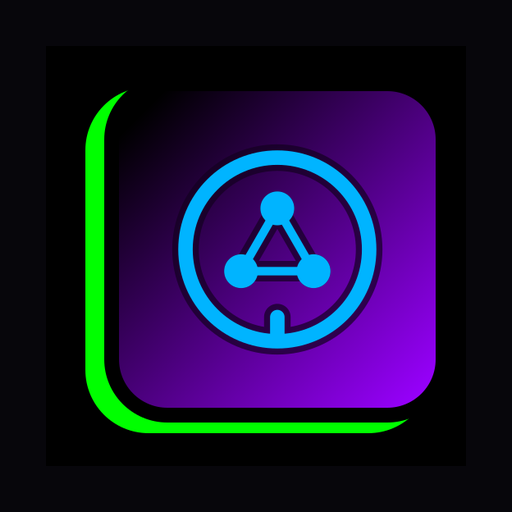
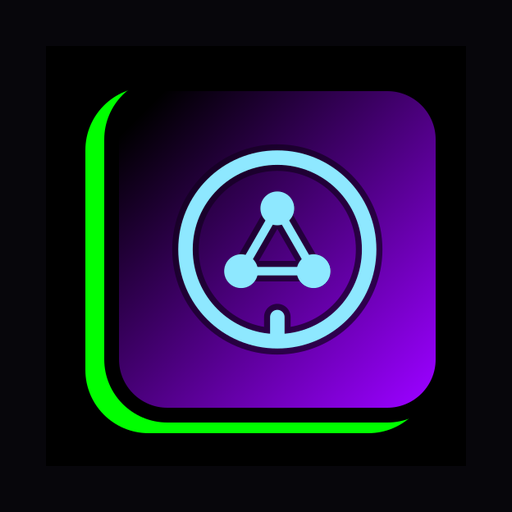
SYSTEMS v3.4 · icono de pestaña y de app con el azul claro y recortes de la imagen de pantalla en más fotos

Changed region(s): [[0.3438, 0.2812, 0.75, 0.6875], [0.4375, 0.375, 0.6562, 0.5625]]

diff --git a/comun/fotorec.js b/comun/fotorec.js
@@ -1,5 +1,6 @@
 // SYSTEMS · dónde está la pantalla dentro de la foto oficial de cada display (fotos frontales de charmex.net, según información de los fabricantes).
 // SC_FOTO_REC[id] = [ancho px, alto px, x, y, ancho, alto de la imagen activa en fracción de la foto]. Calculado el 27-11-2026 con el contorno
 // del producto en la foto y sus medidas reales (comun/medidas.js): solo las fotos frontales cuyo contorno coincide con el cuerpo (5 % como mucho).
+// Además, recortes medidos a mano (27-11) en las fotos de ambiente o con dos pantallas: Clevertouch CL PRO2, High Bright y tótems; LG UH5Q, UL3Q, UL5Q, UH7Q y PK640.
 // La simulación a escala enseña como contenido lo que se ve en la pantalla de la foto; sin recorte, la foto entera. GPL-3.0 · mediaservi.com
-globalThis.SC_FOTO_REC = {"LH24OHBEBGBXEN":[955,637,0.0772,0.1431,0.8457,0.7139],"LH24QBCTBGCXEN":[797,637,0.0565,0.1877,0.887,0.6215],"LH32QMCEBGCXEN":[956,559,0.0438,0.0688,0.9302,0.8803],"LH37SHCEBGBXEN":[955,637,0.0432,0.2943,0.9115,0.4178],"LH43QBCEBGCXEN":[956,559,0.04,0.0616,0.9377,0.8947],"LH43QHCEBGCXEN":[956,559,0.04,0.0616,0.9377,0.8947],"LH43QMBTBGCXEN":[955,637,0.0699,0.1397,0.8601,0.7206],"LH43QMCEPGCXEN":[956,559,0.04,0.0616,0.9377,0.8947],"LH46OMBEBGBXEN":[955,637,0.0627,0.1287,0.8746,0.7394],"LH50QBCEBGCXEN":[956,559,0.0387,0.059,0.9404,0.9],"LH50QHCEBGCXEN":[956,559,0.0387,0.059,0.9404,0.9],"LH50QMCEPGCXEN":[956,559,0.0387,0.059,0.9404,0.9],"LH55OHDWBGBXEN":[956,563,0.0191,0.0454,0.9629,0.9198],"LH55QBCEBGCXEN":[956,559,0.0392,0.0587,0.9394,0.9006],"LH55QHCEBGCXEN":[956,559,0.0392,0.0587,0.9394,0.9006],"LH55QMBTBGCXEN":[955,637,0.0673,0.1335,0.8654,0.7362],"LH55QMCEBGCXEN":[956,559,0.0392,0.0587,0.9394,0.9006],"LH55VMCEBGBXEN":[955,637,0.0487,0.1226,0.9004,0.7549],"LH65QBCEBGCXEN":[956,559,0.0372,0.0555,0.9433,0.9068],"LH65QHCEBGCXEN":[956,559,0.0372,0.0555,0.9433,0.9068],"LH65QMCEBGCXEN":[956,559,0.0372,0.0555,0.9433,0.9068],"LH75OMAEBGBXEN":[955,637,0.0534,0.1196,0.8912,0.7577],"LH75QBCEBGCXEN":[956,559,0.0376,0.0558,0.9426,0.9064],"LH75QHCEBGCXEN":[956,559,0.0376,0.0558,0.9426,0.9064],"LH75QMCEBGCXEN":[956,559,0.0376,0.0558,0.9426,0.9064],"LH85QBCEBGCXEN":[956,559,0.037,0.0545,0.9437,0.909],"LH85QMCEBGCXEN":[956,559,0.037,0.0545,0.9437,0.909],"LH85SMHPBGCXEN":[376,637,0.0503,0.0239,0.9126,0.9569],"LH98QHCEBGCXEN":[956,559,0.0365,0.0535,0.9447,0.9108],"LH55WMFWBGCXEN":[955,637,0.072,0.141,0.8559,0.718],"LH65WMFWBGCXEN":[956,568,0.0373,0.0654,0.9244,0.8779],"LH75WMFWLGCXEN":[956,581,0.0334,0.0785,0.9279,0.8498],"LH85WMFWLGCXEN":[956,581,0.0312,0.0735,0.9323,0.8598],"37BH7N-H":[956,323,0.0369,0.1001,0.8947,0.7596],"49VL5PJ-A":[956,634,0.1435,0.2326,0.7099,0.6027],"55XF3E-B":[956,534,0.1103,0.089,0.7701,0.7901],"TS1291304EXP":[956,608,0.104,0.1419,0.8035,0.7146]};
+globalThis.SC_FOTO_REC = {"LH24OHBEBGBXEN":[955,637,0.0772,0.1431,0.8457,0.7139],"LH24QBCTBGCXEN":[797,637,0.0565,0.1877,0.887,0.6215],"LH32QMCEBGCXEN":[956,559,0.0438,0.0688,0.9302,0.8803],"LH37SHCEBGBXEN":[955,637,0.0432,0.2943,0.9115,0.4178],"LH43QBCEBGCXEN":[956,559,0.04,0.0616,0.9377,0.8947],"LH43QHCEBGCXEN":[956,559,0.04,0.0616,0.9377,0.8947],"LH43QMBTBGCXEN":[955,637,0.0699,0.1397,0.8601,0.7206],"LH43QMCEPGCXEN":[956,559,0.04,0.0616,0.9377,0.8947],"LH46OMBEBGBXEN":[955,637,0.0627,0.1287,0.8746,0.7394],"LH50QBCEBGCXEN":[956,559,0.0387,0.059,0.9404,0.9],"LH50QHCEBGCXEN":[956,559,0.0387,0.059,0.9404,0.9],"LH50QMCEPGCXEN":[956,559,0.0387,0.059,0.9404,0.9],"LH55OHDWBGBXEN":[956,563,0.0191,0.0454,0.9629,0.9198],"LH55QBCEBGCXEN":[956,559,0.0392,0.0587,0.9394,0.9006],"LH55QHCEBGCXEN":[956,559,0.0392,0.0587,0.9394,0.9006],"LH55QMBTBGCXEN":[955,637,0.0673,0.1335,0.8654,0.7362],"LH55QMCEBGCXEN":[956,559,0.0392,0.0587,0.9394,0.9006],"LH55VMCEBGBXEN":[955,637,0.0487,0.1226,0.9004,0.7549],"LH65QBCEBGCXEN":[956,559,0.0372,0.0555,0.9433,0.9068],"LH65QHCEBGCXEN":[956,559,0.0372,0.0555,0.9433,0.9068],"LH65QMCEBGCXEN":[956,559,0.0372,0.0555,0.9433,0.9068],"LH75OMAEBGBXEN":[955,637,0.0534,0.1196,0.8912,0.7577],"LH75QBCEBGCXEN":[956,559,0.0376,0.0558,0.9426,0.9064],"LH75QHCEBGCXEN":[956,559,0.0376,0.0558,0.9426,0.9064],"LH75QMCEBGCXEN":[956,559,0.0376,0.0558,0.9426,0.9064],"LH85QBCEBGCXEN":[956,559,0.037,0.0545,0.9437,0.909],"LH85QMCEBGCXEN":[956,559,0.037,0.0545,0.9437,0.909],"LH85SMHPBGCXEN":[376,637,0.0503,0.0239,0.9126,0.9569],"LH98QHCEBGCXEN":[956,559,0.0365,0.0535,0.9447,0.9108],"LH55WMFWBGCXEN":[955,637,0.072,0.141,0.8559,0.718],"LH65WMFWBGCXEN":[956,568,0.0373,0.0654,0.9244,0.8779],"LH75WMFWLGCXEN":[956,581,0.0334,0.0785,0.9279,0.8498],"LH85WMFWLGCXEN":[956,581,0.0312,0.0735,0.9323,0.8598],"37BH7N-H":[956,323,0.0369,0.1001,0.8947,0.7596],"49VL5PJ-A":[956,634,0.1435,0.2326,0.7099,0.6027],"55XF3E-B":[956,534,0.1103,0.089,0.7701,0.7901],"TS1291304EXP":[956,608,0.104,0.1419,0.8035,0.7146],"TS1291320EXP":[811,637,0.0185,0.2292,0.5364,0.5149],"TS1291321EXP":[811,637,0.0185,0.2292,0.5364,0.5149],"TS1291322EXP":[811,637,0.0185,0.2292,0.5364,0.5149],"TS1291323EXP":[811,637,0.0185,0.2292,0.5364,0.5149],"TS1291324EXP":[811,637,0.0185,0.2292,0.5364,0.5149],"TS1291325EXP":[811,637,0.0185,0.2292,0.5364,0.5149],"TS1291312EXP":[405,637,0.1432,0.0958,0.7086,0.7975],"TS1291313EXP":[405,637,0.1432,0.0958,0.7086,0.7975],"TS1290060EXP":[261,637,0.1073,0.0314,0.7854,0.5557],"TS1290061EXP":[261,637,0.1073,0.0314,0.7854,0.5557],"TS1291310":[261,637,0.1073,0.0314,0.7854,0.5557],"TS1291311":[261,637,0.1073,0.0314,0.7854,0.5557],"43UH5Q-E":[956,484,0.2814,0.1157,0.1768,0.376],"49UH5Q-E":[956,484,0.2814,0.1157,0.1768,0.376],"55UH5Q-E":[956,484,0.2814,0.1157,0.1768,0.376],"65UH5Q-E":[956,484,0.2814,0.1157,0.1768,0.376],"75UH5Q-E":[956,484,0.2814,0.1157,0.1768,0.376],"98UH5Q-H":[956,484,0.2814,0.1157,0.1768,0.376],"43UL3Q-E":[956,478,0.1987,0.0837,0.3243,0.5711],"50UL3Q-E":[956,478,0.1987,0.0837,0.3243,0.5711],"55UL3Q-E":[956,478,0.1987,0.0837,0.3243,0.5711],"65UL3Q-E":[956,478,0.1987,0.0837,0.3243,0.5711],"75UL3Q-E":[956,478,0.1987,0.0837,0.3243,0.5711],"86UL3Q-E":[956,478,0.1987,0.0837,0.3243,0.5711],"32UL5Q-M":[956,468,0.249,0.0662,0.2636,0.3611],"43UL5Q-E":[956,468,0.249,0.0662,0.2636,0.3611],"50UL5Q-M":[956,468,0.249,0.0662,0.2636,0.3611],"55UL5Q-M":[956,468,0.249,0.0662,0.2636,0.3611],"65UL5Q-M":[956,468,0.249,0.0662,0.2636,0.3611],"75UL5Q-M":[956,468,0.249,0.0662,0.2636,0.3611],"86UL5Q-E":[956,468,0.249,0.0662,0.2636,0.3611],"43UH7Q-E":[956,478,0.2092,0.1172,0.1831,0.3808],"49UH7Q-E":[956,478,0.2092,0.1172,0.1831,0.3808],"55UH7Q-E":[956,478,0.2092,0.1172,0.1831,0.3808],"65UH7Q-E":[956,478,0.2092,0.1172,0.1831,0.3808],"75UH7Q-E":[956,478,0.2092,0.1172,0.1831,0.3808],"86UH7Q-E":[956,478,0.2092,0.1172,0.1831,0.3808],"43PK640S":[956,478,0.1831,0.1172,0.3013,0.4979],"50PK640S":[956,478,0.1831,0.1172,0.3013,0.4979],"55PK640S":[956,478,0.1831,0.1172,0.3013,0.4979],"65PK640S":[956,478,0.1831,0.1172,0.3013,0.4979],"75PK640S":[956,478,0.1831,0.1172,0.3013,0.4979],"86PK640S":[956,478,0.1831,0.1172,0.3013,0.4979]};

diff --git a/sw.js b/sw.js
@@ -4,7 +4,7 @@
    · Lo que no es de este sitio (avisos, crédito, directo) y los vídeos y audios a trozos van siempre por la red.
    Para forzar una copia nueva en todos los dispositivos, sube el número de CACHE.
    Licencia GPL-3.0 · mediaservi.com */
-const PREFIJO = 'systems-', CACHE = PREFIJO + 'v32';
+const PREFIJO = 'systems-', CACHE = PREFIJO + 'v33';
 const BASICO = ['./', 'index.html', 'vista/blocks.css', 'vista/simple.css', 'vista/iconos.css', 'vista/casa.css', 'vista/casa.js', 'vista/util.js', 'vista/iconos.js', 'vista/listas.js', 'vista/conectividad.js', 'vista/tr-electronica.js', 'vista/mod-electronica.js', 'vista/mod-senal.js', 'vista/mod-audio.js', 'vista/mod-video.js', 'vista/mod-display.js', 'vista/mod-sonido.js', 'vista/mod-camaras.js', 'vista/mod-control.js', 'vista/figura.js', 'vista/vt.js', 'vista/peticion.js', 'vista/pdfsys.js', 'pdf.js', 'ficha.html', 'vista/ficha-pag.js', 'vista/ficha-pag.css', 'vista/version.js', 'vista/fichaprod.js', 'vista/simdisp.js', 'comun/fotos.js', 'comun/medidas.js', 'comun/web.js', 'comun/pantallas.js', 'comun/fotorec.js', 'vista/cuerpos.js', 'assets/SCCHART.jpg', 'vista/sim3d.js', 'comun/ficha.js', 'comun/ficha.css', 'comun/equipos.js', 'comun/sistemas.js', 'comun/electronica.js', 'comun/motor-i18n.js', 'calculos.js', 'textos.js', 'credito.js', 'fallo.js', 'instalar.js', 'manifest.json', 'assets/avhub-logo.svg', 'assets/avhub-logo-claro.svg', 'assets/fam/adposter-logo.svg', 'assets/fam/msgame-logo.svg?v=5', 'assets/fam/screens-logo.svg', 'assets/fam/vjshow-logo.svg', 'assets/favicon.svg', 'assets/fonts/inter-latin-400-normal.woff2', 'assets/fonts/inter-latin-500-normal.woff2', 'assets/fonts/inter-latin-700-normal.woff2', 'assets/fonts/inter-latin-800-normal.woff2', 'assets/fonts/share-tech-mono-latin-400-normal.woff2', 'assets/iconos/systems-192.png', 'assets/systems-icono.svg', 'assets/systems-logo.svg'];   // lo mínimo para arrancar sin conexión desde la primera visita
 const FRESCO = /(\/|\.html?|\.json|\.js|\.css|\.webmanifest)$/i, TOPE = 6000;
 const clave = u => { const x = new URL(u, self.registration.scope); x.search = ''; x.hash = ''; return x.href; };

diff --git a/index.html b/index.html
@@ -14,9 +14,9 @@
   <title>SYSTEMS</title>
   <meta name="description" content="SYSTEMS: la electrónica, la señal, el audio y la videoconferencia de un proyecto AV, con el esquema, el resultado y el despiece de los equipos.">
   <meta name="theme-color" content="#232325">
-  <link rel="icon" href="assets/systems-icono-placa.svg?v=placa" type="image/svg+xml">
+  <link rel="icon" href="assets/systems-icono-placa.svg?v=placa2" type="image/svg+xml">
   <link rel="manifest" href="manifest.json">
-  <link rel="apple-touch-icon" href="assets/iconos/systems-180.png">
+  <link rel="apple-touch-icon" href="assets/iconos/systems-180.png?v=2">
   <link rel="stylesheet" href="vista/iconos.css?v=3.0">
   <link rel="stylesheet" href="vista/blocks.css?v=3.0">
   <link rel="stylesheet" href="comun/ficha.css?v=3.0">

diff --git a/ficha.html b/ficha.html
@@ -9,7 +9,7 @@
   <meta name="viewport" content="width=device-width, initial-scale=1, viewport-fit=cover">
   <title>SYSTEMS · ficha</title>
   <meta name="theme-color" content="#232325">
-  <link rel="icon" href="assets/systems-icono-placa.svg?v=placa" type="image/svg+xml">
+  <link rel="icon" href="assets/systems-icono-placa.svg?v=placa2" type="image/svg+xml">
   <link rel="stylesheet" href="vista/blocks.css?v=3.0">
   <link rel="stylesheet" href="comun/ficha.css?v=3.0">
   <link rel="stylesheet" href="vista/ficha-pag.css?v=3.0">

diff --git a/vista/version.js b/vista/version.js
@@ -1,2 +1,2 @@
 // SYSTEMS · versión de la app: la leen la consola y la página de ficha. GPL-3.0 · mediaservi.com
-export const VERSION = 'v3.3';
+export const VERSION = 'v3.4';

diff --git a/README.md b/README.md
@@ -52,7 +52,11 @@ HTML, CSS y JavaScript sin dependencias externas. `index.html` carga la casa (`v
 - `beta`: última entrega en pruebas.
 - `beta-anterior`: la beta previa.
 
-## Cambios de la versión actual (v3.3)
+## Cambios de la versión actual (v3.4)
+- **Icono de la pestaña y de la app**: el símbolo va en un azul más claro (#8ee8ff) para que contraste con la placa magenta (solo en estos dos iconos; el resto de la marca sigue con su azul).
+- **Simulación**: recorte a mano de la imagen de pantalla en las fotos de ambiente o con dos pantallas (Clevertouch CL PRO2, High Bright y tótems; LG UH5Q, UL3Q, UL5Q, UH7Q y PK640): el contenido es lo que el fabricante enseña en la pantalla, sin fondos ni marcos.
+
+## Cambios de la v3.3
 - **Pantalla de proyección real, siempre**: VIDEOCONF. propone un modelo real de pantalla de proyección (`comun/pantallas.js`: 72 modelos de imagen 16:9 o 16:10 de ORAY, Da-Lite y Stumpfl, según información de los fabricantes), el más pequeño cuya imagen llega al espectador más lejano sin pasar del techo, con su foto, ficha, PDF y página. Montaje a elegir: eléctrica, de falso techo o marco fijo. Las de la misma medida salen en ALTERNATIVAS. SCREENS se abre con el formato de esa pantalla.
 - **Simulación a escala**: el contenido por defecto es la imagen que el fabricante enseña en la pantalla de su foto oficial (en las fotos frontales, recortada a la imagen activa; en las demás, la foto entera) y cambia sola al cambiar de modelo. La carta de ajuste y el vídeo de mediaservi siguen en CONTENIDO.
 - En lugar de la tarjeta de foto, **los cuadros de datos de SCREENS**: resolución (4K · ULTRA HD · 3840×2160 px), resumen (pantallas, pulgadas, ancho y alto) y distancia de visionado (mínima y óptima).
